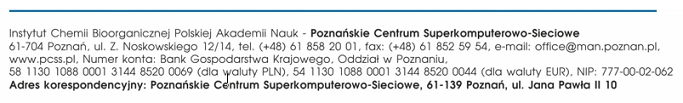
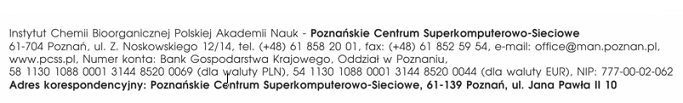
More styling updates

Changed region(s): [[0.0, 0.0874, 0.9839, 0.1165]]

diff --git a/pdf-templates/pdf-contract-signed.html b/pdf-templates/pdf-contract-signed.html
@@ -1,8 +1,8 @@
 <!DOCTYPE html>
 <html xmlns:th="http://www.thymeleaf.org">
 <head>
-<meta http-equiv="Content-Type" content="text/html; charset=UTF-8" />
-<link rel="stylesheet" type="text/css" media="all" href="style.css" />
+	<meta http-equiv="Content-Type" content="text/html; charset=UTF-8" />
+	<link rel="stylesheet" type="text/css" media="all" href="style.css" />
 </head>
 <body>
 	<div class='header' th:insert="header.html :: header"></div>

diff --git a/pdf-templates/pdf-general.html b/pdf-templates/pdf-general.html
@@ -1,7 +1,8 @@
 <!DOCTYPE HTML>
 <html xmlns:th="http://www.thymeleaf.org">
 <head>
-<meta charset="UTF-8" />
+	<meta http-equiv="Content-Type" content="text/html; charset=UTF-8" />
+	<link rel="stylesheet" type="text/css" media="all" href="style.css" />
 </head>
 <body>
     <em th:fragment="greetings(firstName, surname, email)" th:utext="#{pdf.greetings(${firstName}, ${surname}, ${email})}"></em>

diff --git a/pdf-templates/header.html b/pdf-templates/header.html
@@ -1,7 +1,3 @@
 <div th:fragment="header">
-    <table>
-        <tr>
-            <td class="center"><img class="logo" src="images/institution_header.png" alt="logo"></td>
-        </tr>
-    </table>
+    <img src="images/institution_header.png"/>
 </div>

diff --git a/pdf-templates/footer.html b/pdf-templates/footer.html
@@ -1,3 +1,8 @@
 <div th:fragment="footer">
+	<hr>
+    <div class="page-count">
+        Page <span id="pagenumber"></span> of <span id="pagecount"></span>
+    </div>
+    <br />
     <img src="images/institution_footer.png"/>
 </div>
